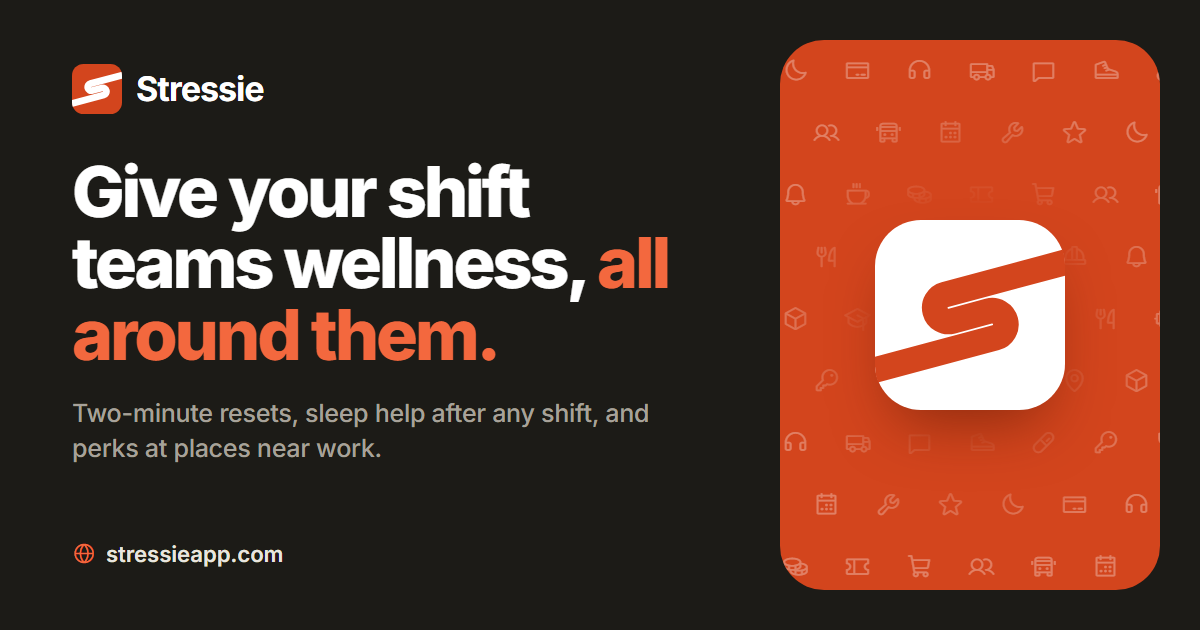
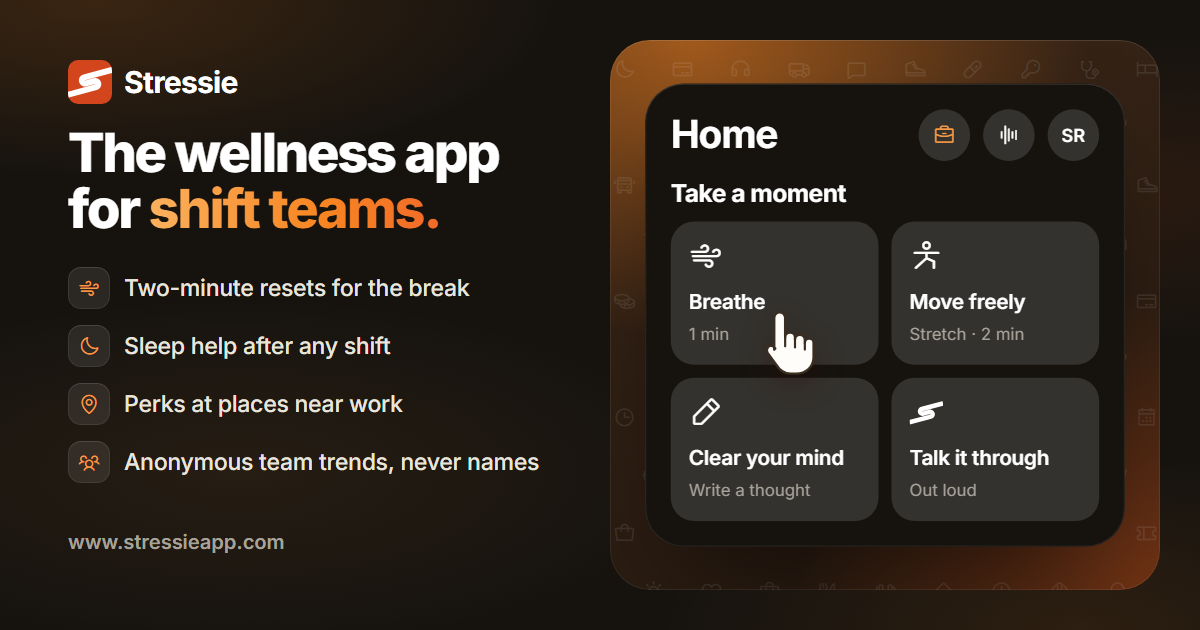
Share image v2: explain what Stressie does, show the Home screen
og-card.html is the source (it uses site.css). DESIGN.md now matches the
live palette (calm dark, warm orange, glass) and documents the share image.

diff --git a/og-card.html b/og-card.html
@@ -1,0 +1,78 @@
+<!doctype html>
+<!-- Source for img/og.png, the 1200x630 share image. Not linked from the site.
+     To re-render: chrome --headless=new --hide-scrollbars --force-device-scale-factor=1 --window-size=1200,630 --virtual-time-budget=8000 --screenshot=img/og.png og-card.html -->
+<html lang="en"><head><meta charset="utf-8"><meta name="robots" content="noindex">
+<link href="https://fonts.googleapis.com/css2?family=Inter:wght@400;500;600;700;800&display=swap" rel="stylesheet">
+<link rel="stylesheet" href="https://unpkg.com/@phosphor-icons/web@2.1.1/src/regular/style.css">
+<link rel="stylesheet" href="https://unpkg.com/@phosphor-icons/web@2.1.1/src/fill/style.css">
+<link rel="stylesheet" href="site.css">
+<style>
+  html, body { width: 1200px; height: 630px; overflow: hidden; }
+  body { background-attachment: scroll; }
+  .og-left { position: absolute; left: 68px; top: 60px; bottom: 58px; width: 560px; display: flex; flex-direction: column; }
+  .og-left .brand { font-size: 30px; gap: 12px; }
+  .og-left .brand .mark { width: 44px; height: 44px; }
+  .og-title { margin: auto 0 0; font: 800 54px/1.04 var(--display); letter-spacing: -.04em; text-wrap: balance; }
+  .og-list { display: grid; gap: 16px; margin: 30px 0 0; padding: 0; list-style: none; }
+  .og-list li { display: flex; align-items: center; gap: 14px; font: 500 23px/1.25 var(--sans); color: var(--text-2); letter-spacing: -.01em; }
+  .og-list i { display: grid; place-items: center; flex: none; width: 42px; height: 42px; border-radius: 13px; background: var(--glass-2); box-shadow: var(--glass-edge); color: var(--accent); font-size: 22px; }
+  .og-url { margin-top: auto; padding-top: 28px; font: 600 20px/1 var(--sans); color: var(--muted); }
+  .og-stage { position: absolute; right: 40px; top: 40px; width: 550px; height: 550px; --s: calc(550 / 520); }
+  .og-stage .stage { border-radius: 40px; }
+  .og-stage .app { transform: translate(-50%, -50%) scale(1.22); }
+  .og-stage .hand { opacity: 1; --x: 150px; --y: 268px; width: 70px; height: 70px; }
+  .og-title em { font-style: normal; background: linear-gradient(90deg, #FBB15E, #F78521 60%, #F26A2A); -webkit-background-clip: text; background-clip: text; -webkit-text-fill-color: transparent; }
+</style></head>
+<body>
+<svg width="0" height="0" style="position:absolute" aria-hidden="true"><defs>
+  <clipPath id="mclip"><rect width="100" height="100" rx="23"/></clipPath>
+  <symbol id="mark" viewBox="0 0 100 100"><rect width="100" height="100" rx="23" fill="#D3451D"/><g clip-path="url(#mclip)"><path transform="rotate(-15 50 50)" d="M130 36.2H40A7.2 7.2 0 0 0 40 50.6H60A7.2 7.2 0 0 1 60 65H-30" fill="none" stroke="#fff" stroke-width="13.5"/></g></symbol>
+  <symbol id="mark-s" viewBox="0 0 100 100"><g clip-path="url(#mclip)"><path transform="rotate(-15 50 50)" d="M130 36.2H40A7.2 7.2 0 0 0 40 50.6H60A7.2 7.2 0 0 1 60 65H-30" fill="none" stroke="currentColor" stroke-width="13.5"/></g></symbol>
+  <symbol id="i-hand" viewBox="0 0 64 64">
+    <path d="M13 38V9a5 5 0 0 1 10 0v18a4.5 4.5 0 0 1 9 0v2a4.5 4.5 0 0 1 9 0v3a4 4 0 0 1 8 0v13c0 9-7 15-16 15h-5c-6 0-10-3-13-8l-8-11c-1.5-2.4-.5-5.3 2-6.3 2.2-.8 3.6.2 5 2.3z" fill="#FFFDF9" stroke="#3A2E22" stroke-width="2.2" stroke-linejoin="round"/>
+    <path d="M32 29v7M41 32v6M23 27v8" fill="none" stroke="#3A2E22" stroke-width="2" stroke-linecap="round"/>
+  </symbol>
+</defs></svg>
+
+<div class="og-left">
+  <span class="brand"><svg class="mark"><use href="#mark"/></svg>Stressie</span>
+  <h1 class="og-title">The wellness app for <em>shift teams.</em></h1>
+  <ul class="og-list">
+    <li><i class="ph ph-wind"></i>Two-minute resets for the break</li>
+    <li><i class="ph ph-moon"></i>Sleep help after any shift</li>
+    <li><i class="ph ph-map-pin"></i>Perks at places near work</li>
+    <li><i class="ph ph-users-three"></i>Anonymous team trends, never names</li>
+  </ul>
+  <p class="og-url">www.stressieapp.com</p>
+</div>
+
+<div class="og-stage">
+  <div class="stage is-on">
+    <div class="pattern" data-pattern></div>
+    <div class="art"><div class="app">
+      <div class="app-row"><p class="app-title">Home</p><div class="app-row"><span class="round work"><i class="ph ph-briefcase"></i></span><span class="round"><i class="ph ph-waveform"></i></span><span class="round av">SR</span></div></div>
+      <p class="app-sub">Take a moment</p>
+      <div class="moments">
+        <div class="mo"><i class="ph ph-wind"></i><b>Breathe</b><span>1 min</span></div>
+        <div class="mo"><i class="ph ph-person-simple-tai-chi"></i><b>Move freely</b><span>Stretch · 2 min</span></div>
+        <div class="mo"><i class="ph ph-pencil-simple"></i><b>Clear your mind</b><span>Write a thought</span></div>
+        <div class="mo"><svg class="mark"><use href="#mark-s"/></svg><b>Talk it through</b><span>Out loud</span></div>
+      </div>
+    </div></div>
+    <div class="hand"><svg viewBox="0 0 64 64"><use href="#i-hand"/></svg></div>
+  </div>
+</div>
+
+<script>
+  // The brand-board icon pattern, as drawn by site.js
+  const ICONS = ['moon','coffee','sun','sneaker','bus','house','buildings','credit-card','coins','heart','pill','calendar-dots','clock','map-pin','headphones','ticket','tote','key','wrench','hard-hat','cube','truck','shopping-cart','fork-knife','stethoscope','star','bell','graduation-cap','chat','users','barbell','bed'];
+  const el = document.querySelector('[data-pattern]'), w = 550, h = 550, gap = 58;
+  el.style.setProperty('--ps', '22px');
+  let html = '', n = 0;
+  for (let r = 0; r < Math.ceil(h / gap) + 1; r++) for (let c = 0; c < Math.ceil(w / gap) + 1; c++) {
+    const x = c * gap + (r % 2 ? gap / 2 : 0) + gap * .25, y = r * gap + gap * .5;
+    html += `<i class="ph ph-${ICONS[(n * 7 + r * 5) % ICONS.length]}" style="left:${x}px;top:${y}px"></i>`; n++;
+  }
+  el.innerHTML = html;
+</script>
+</body></html>

diff --git a/get.html b/get.html
@@ -10,7 +10,7 @@
 <meta property="og:image" content="https://www.stressieapp.com/img/og.png">
 <meta property="og:image:width" content="1200">
 <meta property="og:image:height" content="630">
-<meta property="og:image:alt" content="Stressie: give your shift teams wellness, all around them.">
+<meta property="og:image:alt" content="Stressie, the wellness app for shift teams: the Home screen with Breathe, Move freely, Clear your mind and Talk it through.">
 <meta name="twitter:card" content="summary_large_image">
 <link rel="icon" href="img/favicon-96.png" type="image/png" sizes="96x96">
 <link rel="apple-touch-icon" href="img/apple-touch-icon.png">

diff --git a/contact.html b/contact.html
@@ -14,7 +14,7 @@
 <meta property="og:image" content="https://www.stressieapp.com/img/og.png">
 <meta property="og:image:width" content="1200">
 <meta property="og:image:height" content="630">
-<meta property="og:image:alt" content="Stressie: give your shift teams wellness, all around them.">
+<meta property="og:image:alt" content="Stressie, the wellness app for shift teams: the Home screen with Breathe, Move freely, Clear your mind and Talk it through.">
 <meta name="twitter:card" content="summary_large_image">
 <meta name="theme-color" content="#1C1B17">
 <link rel="icon" href="img/mark.svg" type="image/svg+xml">

diff --git a/credits.html b/credits.html
@@ -14,7 +14,7 @@
 <meta property="og:image" content="https://www.stressieapp.com/img/og.png">
 <meta property="og:image:width" content="1200">
 <meta property="og:image:height" content="630">
-<meta property="og:image:alt" content="Stressie: give your shift teams wellness, all around them.">
+<meta property="og:image:alt" content="Stressie, the wellness app for shift teams: the Home screen with Breathe, Move freely, Clear your mind and Talk it through.">
 <meta name="twitter:card" content="summary_large_image">
 <meta name="theme-color" content="#1C1B17">
 <link rel="icon" href="img/mark.svg" type="image/svg+xml">

diff --git a/impact.html b/impact.html
@@ -14,7 +14,7 @@
 <meta property="og:image" content="https://www.stressieapp.com/img/og.png">
 <meta property="og:image:width" content="1200">
 <meta property="og:image:height" content="630">
-<meta property="og:image:alt" content="Stressie: give your shift teams wellness, all around them.">
+<meta property="og:image:alt" content="Stressie, the wellness app for shift teams: the Home screen with Breathe, Move freely, Clear your mind and Talk it through.">
 <meta name="twitter:card" content="summary_large_image">
 <meta name="theme-color" content="#1C1B17">
 <link rel="icon" href="img/mark.svg" type="image/svg+xml">

diff --git a/index.html b/index.html
@@ -14,7 +14,7 @@
 <meta property="og:image" content="https://www.stressieapp.com/img/og.png">
 <meta property="og:image:width" content="1200">
 <meta property="og:image:height" content="630">
-<meta property="og:image:alt" content="Stressie: give your shift teams wellness, all around them.">
+<meta property="og:image:alt" content="Stressie, the wellness app for shift teams: the Home screen with Breathe, Move freely, Clear your mind and Talk it through.">
 <meta name="twitter:card" content="summary_large_image">
 <meta name="theme-color" content="#1C1B17">
 <link rel="icon" href="img/mark.svg" type="image/svg+xml">

diff --git a/manifesto.html b/manifesto.html
@@ -14,7 +14,7 @@
 <meta property="og:image" content="https://www.stressieapp.com/img/og.png">
 <meta property="og:image:width" content="1200">
 <meta property="og:image:height" content="630">
-<meta property="og:image:alt" content="Stressie: give your shift teams wellness, all around them.">
+<meta property="og:image:alt" content="Stressie, the wellness app for shift teams: the Home screen with Breathe, Move freely, Clear your mind and Talk it through.">
 <meta name="twitter:card" content="summary_large_image">
 <meta name="theme-color" content="#1C1B17">
 <link rel="icon" href="img/mark.svg" type="image/svg+xml">

diff --git a/partners.html b/partners.html
@@ -14,7 +14,7 @@
 <meta property="og:image" content="https://www.stressieapp.com/img/og.png">
 <meta property="og:image:width" content="1200">
 <meta property="og:image:height" content="630">
-<meta property="og:image:alt" content="Stressie: give your shift teams wellness, all around them.">
+<meta property="og:image:alt" content="Stressie, the wellness app for shift teams: the Home screen with Breathe, Move freely, Clear your mind and Talk it through.">
 <meta name="twitter:card" content="summary_large_image">
 <meta name="theme-color" content="#1C1B17">
 <link rel="icon" href="img/mark.svg" type="image/svg+xml">

diff --git a/privacy.html b/privacy.html
@@ -14,7 +14,7 @@
 <meta property="og:image" content="https://www.stressieapp.com/img/og.png">
 <meta property="og:image:width" content="1200">
 <meta property="og:image:height" content="630">
-<meta property="og:image:alt" content="Stressie: give your shift teams wellness, all around them.">
+<meta property="og:image:alt" content="Stressie, the wellness app for shift teams: the Home screen with Breathe, Move freely, Clear your mind and Talk it through.">
 <meta name="twitter:card" content="summary_large_image">
 <meta name="theme-color" content="#1C1B17">
 <link rel="icon" href="img/mark.svg" type="image/svg+xml">

diff --git a/terms.html b/terms.html
@@ -14,7 +14,7 @@
 <meta property="og:image" content="https://www.stressieapp.com/img/og.png">
 <meta property="og:image:width" content="1200">
 <meta property="og:image:height" content="630">
-<meta property="og:image:alt" content="Stressie: give your shift teams wellness, all around them.">
+<meta property="og:image:alt" content="Stressie, the wellness app for shift teams: the Home screen with Breathe, Move freely, Clear your mind and Talk it through.">
 <meta name="twitter:card" content="summary_large_image">
 <meta name="theme-color" content="#1C1B17">
 <link rel="icon" href="img/mark.svg" type="image/svg+xml">

diff --git a/waitlist.html b/waitlist.html
@@ -14,7 +14,7 @@
 <meta property="og:image" content="https://www.stressieapp.com/img/og.png">
 <meta property="og:image:width" content="1200">
 <meta property="og:image:height" content="630">
-<meta property="og:image:alt" content="Stressie: give your shift teams wellness, all around them.">
+<meta property="og:image:alt" content="Stressie, the wellness app for shift teams: the Home screen with Breathe, Move freely, Clear your mind and Talk it through.">
 <meta name="twitter:card" content="summary_large_image">
 <meta name="theme-color" content="#1C1B17">
 <link rel="icon" href="img/mark.svg" type="image/svg+xml">

diff --git a/DESIGN.md b/DESIGN.md
@@ -1,24 +1,31 @@
 # Stressie web design system
 
-The site looks like the app: dark, warm and quiet, with one orange for anything that matters. All tokens live at the top of `site.css` under `:root`. Use the variables, never raw hex, so the light theme keeps working.
+The site looks like the app: warm dark, calm, with soft orange light and glass panels. Use the CSS variables, never raw hex.
 
-## Colour
+**How `site.css` is layered:** the first `:root` block at the top sets the base tokens. Further down, the "Calm dark" section (search for `Calm dark`) overrides some of them and adds the gradients and glass; that later block is what the live site looks like. When you change a token, change it in the block that wins (the later one, if the token appears there).
 
-| Token | Dark (default) | Use |
+## Colour (as the live site renders)
+
+| Token | Value | Use |
 |---|---|---|
-| `--bg` | `#1C1B17` | Page background (the app's background) |
+| `--bg` | `#16130F` | Page background, warm near-black. The body adds faint orange glows on top |
 | `--bg-2` | `#22211D` | Alternate band |
-| `--card` / `--card-2` / `--card-3` | `#2B2A26` / `#34322E` / `#403D38` | Panels, chips, hover steps |
+| `--card` / `--card-2` / `--card-3` | `#2B2A26` / `#34322E` / `#403D38` | App cards, tiles, hover steps |
+| `--glass` / `--glass-2` | white 5.5% / 9% | Glass surfaces (chips, notes, forms), with `--glass-edge` and a backdrop blur |
 | `--text` | `#FFFFFF` | Headings, main text |
 | `--text-2` | `#E8E5DF` | Nav links, secondary text |
 | `--muted` | `#A7A29A` | Leads, captions |
 | `--faint` | `#78736B` | Fine print |
 | `--line` | white 8% | Dividers |
-| `--accent` | `#F3683E` | The app's orange: `<em>` in headings, eyebrows, icons, active states |
-| `--red` / `--red-deep` | `#D3451D` / `#B93A17` | The S mark, the vermilion icon pattern, `.btn-red` |
+| `--accent` | `#F99A45` | Warm Stressie orange: eyebrows, icons, active states |
+| `--orange-a` / `--orange-b` | `#F78521` / `#F05F1C` | The orange gradient on main buttons, pins and active steps |
+| `--panel` | orange glow on dark brown | Background of the app close-up stages and big feature panels |
+| `--red` / `--red-deep` | `#D3451D` / `#B93A17` | The S mark only |
 | `--ok` | `#8CCB86` | Success states |
 
-Light theme is opt-in (`html[data-theme="light"]`, toggled by `.theme-btn` and remembered in localStorage). It swaps the same tokens for a warm white page; app close-ups stay dark like the real app. Any new colour must be added to both blocks.
+`<em>` inside `.h1` / `.h2` renders as the orange gradient text (`#FBB15E` to `#F26A2A`).
+
+There is an old light theme in the CSS, but it is switched off (`.theme-btn` is hidden). The site is dark only.
 
 ## Type
 
@@ -34,11 +41,12 @@ Light theme is opt-in (`html[data-theme="light"]`, toggled by `.theme-btn` and r
 
 ## Components
 
-- **Buttons:** `.btn` plus one of `.btn-light` (the single main action per screen), `.btn-dark`, `.btn-red`; `.btn-sm` in the nav. Keep white buttons rare: one main action per screen.
+- **Buttons:** `.btn` plus one of `.btn-light` (renders as the orange gradient: the single main action per screen), `.btn-dark`, `.btn-red`; `.btn-sm` in the nav. One main action per screen.
 - **Links with an arrow:** `.link` with `<i class="ph ph-arrow-right">`.
 - **Chips:** `.chip`; **"coming soon" pill:** `.soon`.
 - **Brand:** `.brand` with the inline `<svg class="mark"><use href="#mark"/></svg>` (the S mark is defined once per page). The file is `img/mark.svg`.
-- **Vermilion pattern:** any element with `data-pattern` gets the brand-board icon pattern drawn by `site.js` (`data-ps` size, `data-gap`, `data-po` opacity).
+- **Icon pattern:** any element with `data-pattern` gets the brand-board icon pattern drawn by `site.js` (`data-ps` icon size, `data-gap` spacing, `data-po` opacity). On panels the icons are faint white.
+- **App close-ups:** `.stage` (orange-glow panel) holding `.art` (a 520px artboard) holding `.app` (the dark app card with `.app-title`, `.round` buttons, `.moments` / `.mo` tiles). Reuse these to show any app screen.
 - **Header:** the "For companies | For partners" switch (`.aud`, current page has `aria-current="page"`), a few section links, one button that fits the page (Book a demo, or Join as a partner). Change the header and footer on every page together; they are copied, not included.
 - **Footer:** `.site-foot` with the pattern card, brand blurb, socials and link columns.
 
@@ -56,6 +64,8 @@ Phosphor Icons 2.1.1 from unpkg (regular and fill). Use `<i class="ph ph-name" a
 ## Images
 
 `img/` holds webp photos (industries, sleep, faces, offers). Export new photos as webp, around 1600px wide at most, and always set `alt` text and `width`/`height`.
+
+**Share image:** `img/og.png` (1200x630) is the preview LinkedIn, WhatsApp, iMessage and Slack show. Its source is `og-card.html` in the repo root, which uses `site.css` so it always matches the site. Edit that file, then re-render with the command in its top comment. Every page's `og:` and `twitter:` tags point at it. Icons: `img/favicon-96.png`, `img/apple-touch-icon.png`, `img/icon-192.png`, `img/icon-512.png` (all from `img/mark.svg`).
 
 ## Voice
 
